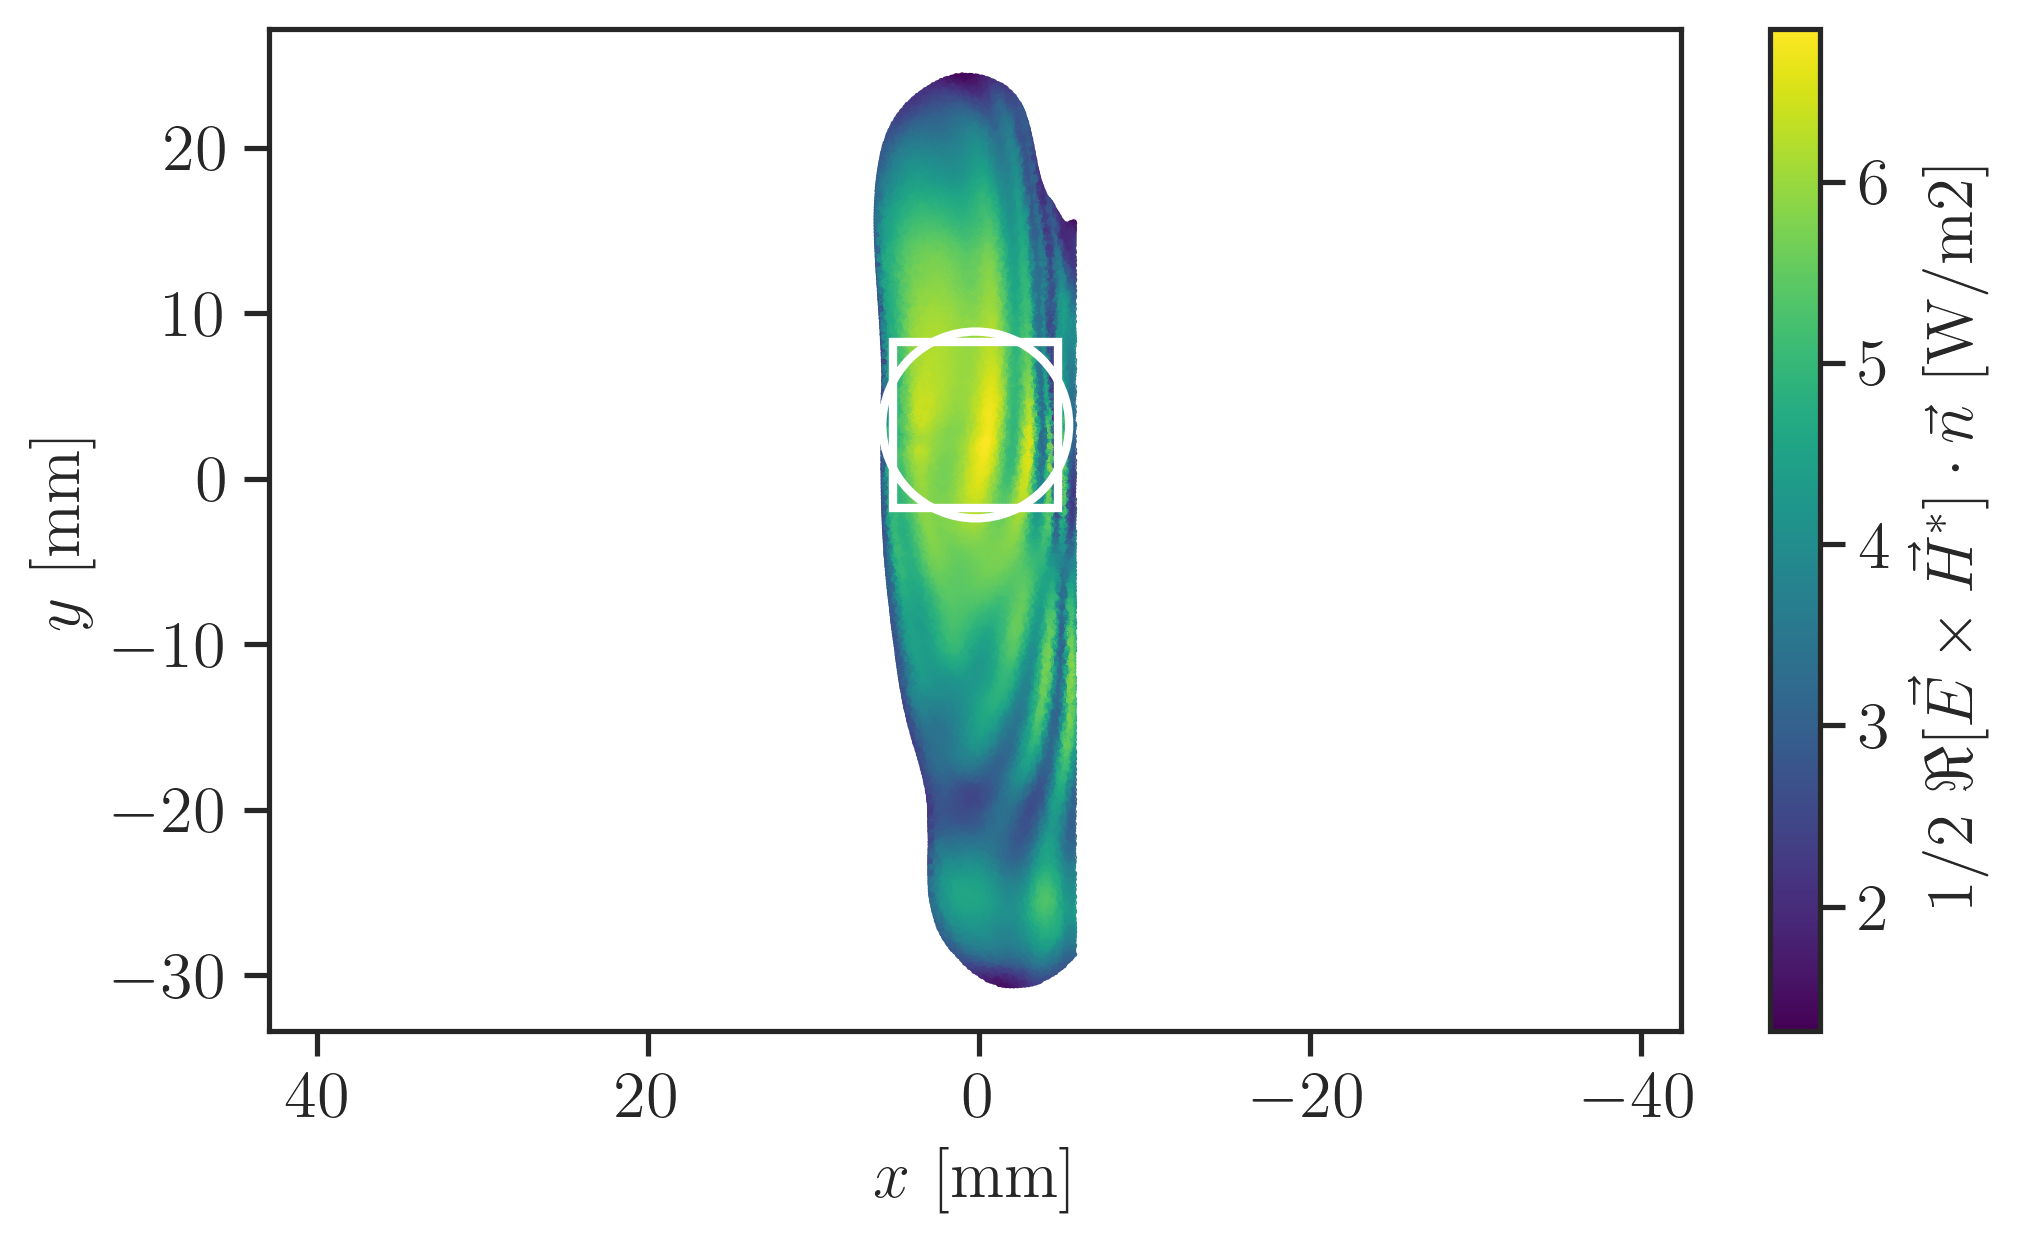
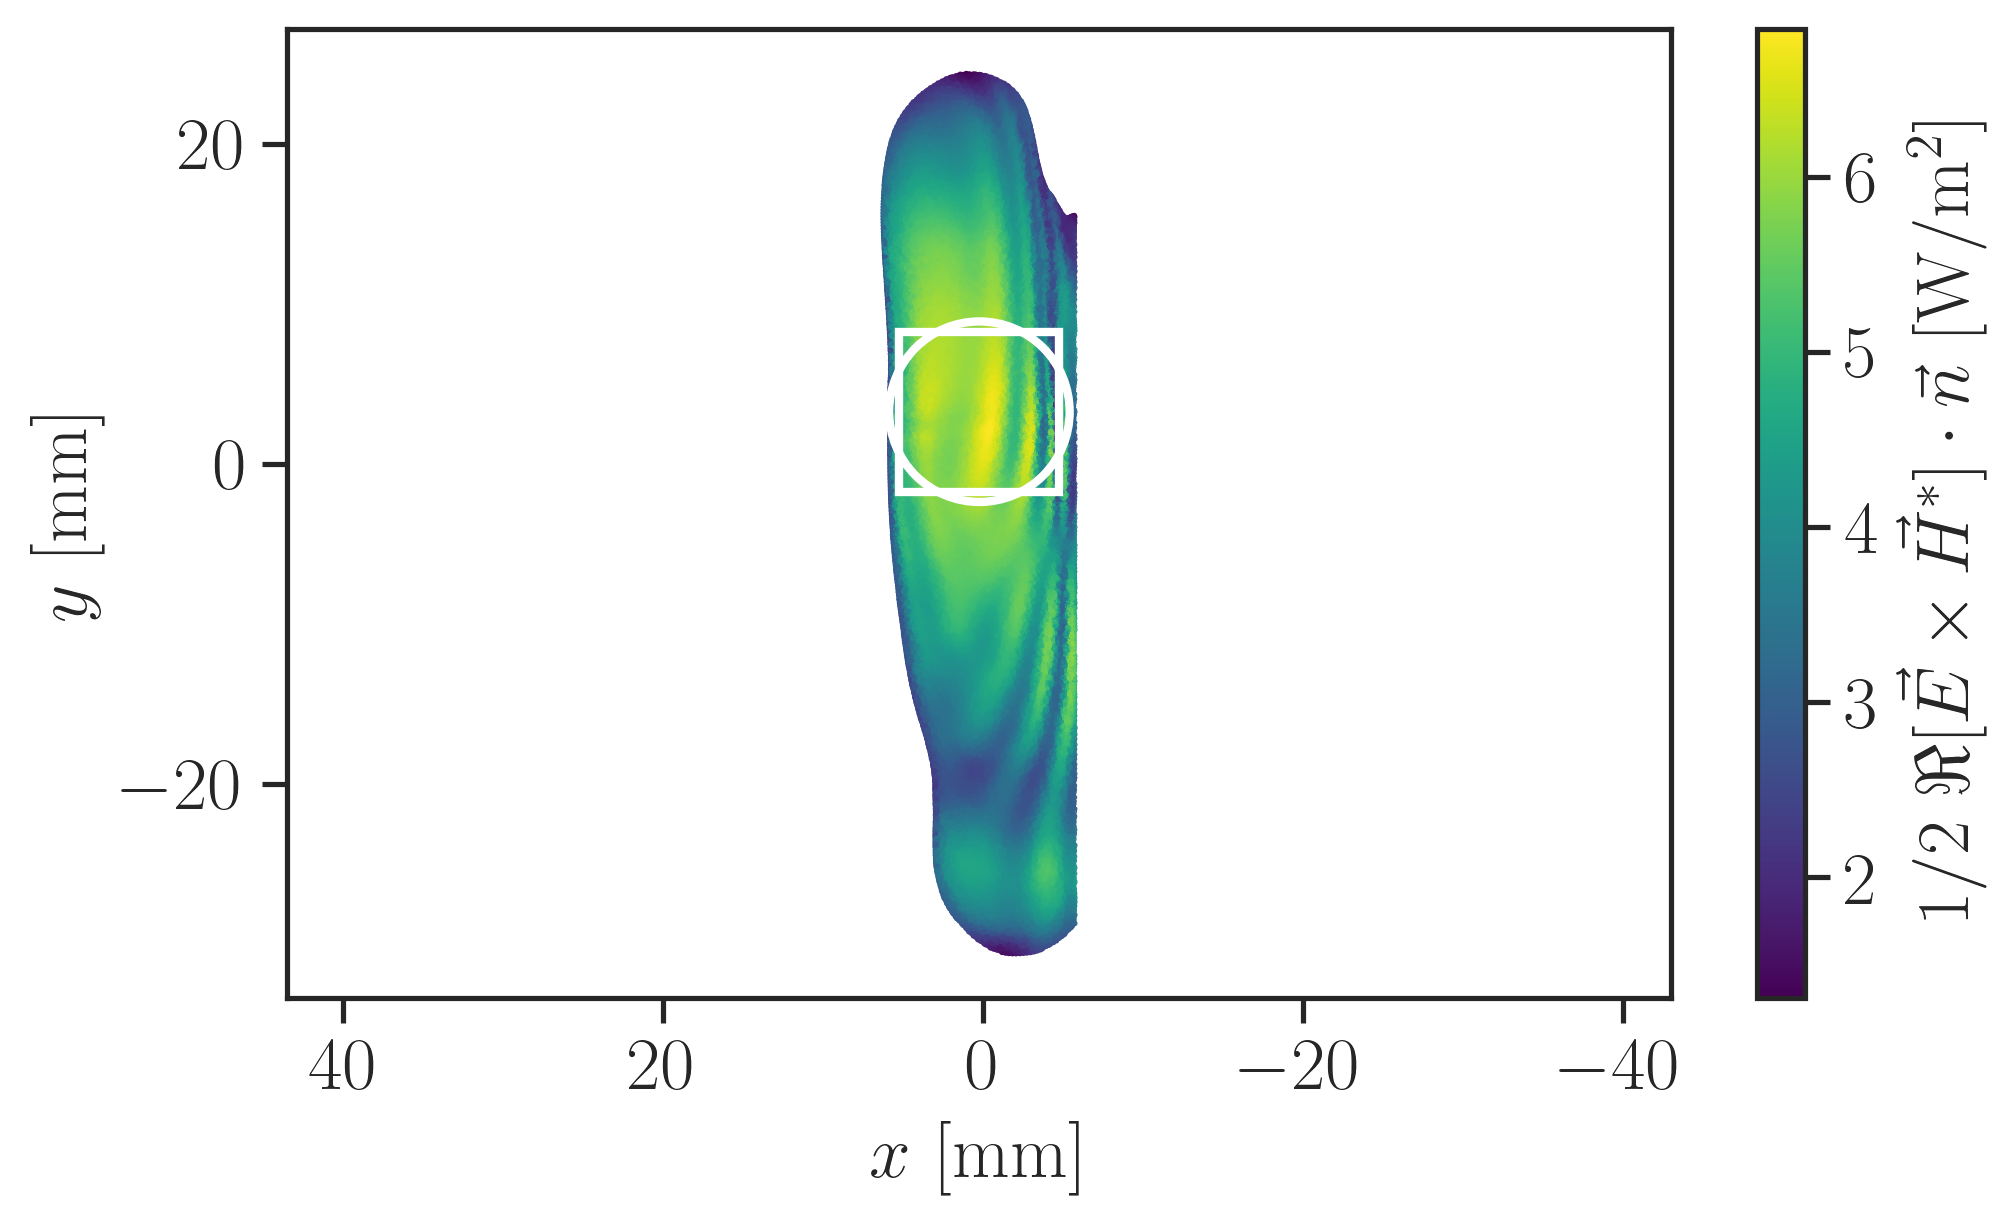
rerun for new results

diff --git a/playground/IMBioC2022_paper/figure_apd_max.py b/playground/IMBioC2022_paper/figure_apd_max.py
@@ -91,7 +91,7 @@ def export_circ_idx(xyz, center, radius, view='xy'):
 
 
 # fetch the data
-mode = 'te'
+mode = 'tm'
 frequency = 60
 df = load_ear_data(mode, frequency)
 df = clean_df(df)
@@ -164,8 +164,8 @@ Sr_circ = Sr_crop_t_xy[idx_circ]
 # visualize the real part of the power density normal to the extracted
 # rectangular and circular averaging surfaces
 set_colorblind()
-fig_config(latex=True, scaler=1.5)
-Sr_label = '$1/2$ $\\Re{[\\vec{E}\\times\\vec{H}^{*}]} \\cdot \\vec{n}$ [W/m2]'
+fig_config(latex=True, scaler=1.5, text_size=18)
+Sr_label = r'$1/2$ $\Re{[\vec{E}\times\vec{H}^{*}]} \cdot \vec{n}$ [W/m$^2$]'
 fig, ax = scatter_2d({'$x$ [mm]': xyz_crop_t_xy[:, 0],
                       '$y$ [mm]': xyz_crop_t_xy[:, 1],
                       Sr_label: Sr_crop_t_xy}, s=0.1)
@@ -179,9 +179,9 @@ save_fig(fig, fname=fname, formats=['png'])
 
 # zoom in to the rectangular integration surface
 set_colorblind()
-fig_config(latex=True, scaler=1.5)
-fig, ax = scatter_2d({'x [mm]': xyz_rect[:, 0],
-                      'y [mm]': xyz_rect[:, 1],
+fig_config(latex=True, scaler=1.5, text_size=18)
+fig, ax = scatter_2d({'$x$ [mm]': xyz_rect[:, 0],
+                      '$y$ [mm]': xyz_rect[:, 1],
                       Sr_label: Sr_rect}, s=20)
 APD_rect = elementwise_dblquad(points=np.c_[xyz_rect[:, 0], xyz_rect[:, 1]],
                                values=Sr_rect,
@@ -193,9 +193,9 @@ save_fig(fig, fname=fname, formats=['png'])
 
 # zoom in to the circular integration surface
 set_colorblind()
-fig_config(latex=True, scaler=1.5)
-fig, ax = scatter_2d({'x [mm]': xyz_circ[:, 0],
-                      'y [mm]': xyz_circ[:, 1],
+fig_config(latex=True, scaler=1.5, text_size=18)
+fig, ax = scatter_2d({'$x$ [mm]': xyz_circ[:, 0],
+                      '$y$ [mm]': xyz_circ[:, 1],
                       Sr_label: Sr_circ}, s=20)
 APD_circ = elementwise_circquad(points=np.c_[xyz_circ[:, 0], xyz_circ[:, 1]],
                                 values=Sr_circ,

diff --git a/playground/IMBioC2022_paper/figure_apd_distribution.py b/playground/IMBioC2022_paper/figure_apd_distribution.py
@@ -44,17 +44,21 @@ xyz_crop_t = np.c_[xyz_crop[:, 0] - center_crop[0],
 
 # scatter plot
 set_colorblind()
-fig_config(latex=True, scaler=2)
+fig_config(latex=True, scaler=2, text_size=18)
 Sr_label = '$1/2$ $\\Re{[\\vec{E}\\times\\vec{H}^{*}]} \\cdot \\vec{n}$ [W/m2]'
-fig, ax = scatter_3d({'z [mm]': xyz_crop_t[:, 2],
-                      'x [mm]': xyz_crop_t[:, 0],
-                      'y [mm]': xyz_crop_t[:, 1],
+fig, ax = scatter_3d({'$z$ [mm]': xyz_crop_t[:, 2],
+                      '$x$ [mm]': xyz_crop_t[:, 0],
+                      '$y$ [mm]': xyz_crop_t[:, 1],
                       Sr_label: Sr_crop},
                      elev=[15], azim=[150])
 # manually turn off visibility of panes -.-
 ax.xaxis.set_pane_color((1.0, 1.0, 1.0, 0.0))
 ax.yaxis.set_pane_color((1.0, 1.0, 1.0, 0.0))
 ax.zaxis.set_pane_color((1.0, 1.0, 1.0, 0.0))
+# and also manually move labels a bit
+ax.xaxis.labelpad = 15
+ax.yaxis.labelpad = 15
+ax.zaxis.labelpad = 12
 
 # save figure
 fname = os.path.join('figures', f'apd_distribution_{mode}{frequency}')
